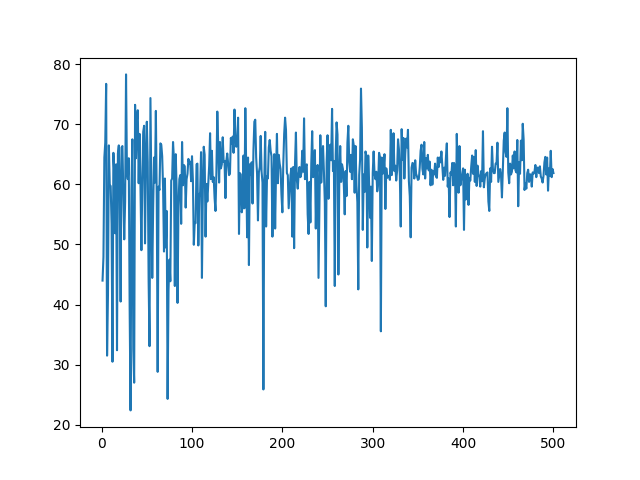
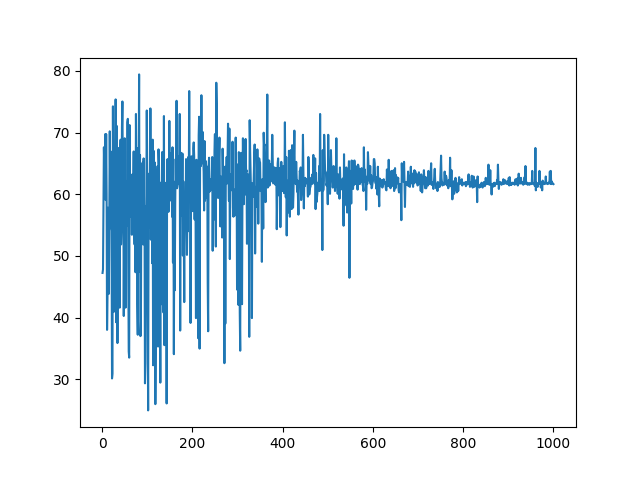
Run for 1000 rounds

diff --git a/examples/vertical-fl/simulation.py b/examples/vertical-fl/simulation.py
@@ -15,7 +15,7 @@ def client_fn(cid):
 hist = fl.simulation.start_simulation(
     client_fn=client_fn,
     num_clients=3,
-    config=fl.server.ServerConfig(num_rounds=500),
+    config=fl.server.ServerConfig(num_rounds=1000),
     strategy=Strategy(label),
 )
 

diff --git a/examples/vertical-fl/README.md b/examples/vertical-fl/README.md
@@ -82,7 +82,7 @@ for `poetry`, otherwise just run:
 python3 simulation.py
 ```
 
-This will start the Vertical FL training for 500 rounds with 3 clients.
+This will start the Vertical FL training for 1000 rounds with 3 clients.
 Eventhough the number of rounds is quite high, this should only take a few
 seconds to run as the model is very small.
 
@@ -451,12 +451,12 @@ function:
 hist = fl.simulation.start_simulation(
     client_fn=client_fn,
     num_clients=3,
-    config=fl.server.ServerConfig(num_rounds=500),
+    config=fl.server.ServerConfig(num_rounds=1000),
     strategy=Strategy(label),
 )
 ```
 
-As mentioned before, we train for 500 rounds but it should still last less than
+As mentioned before, we train for 1000 rounds but it should still last only
 a few seconds.
 
 Note that we store the results of the simulation into `hist`, this will allow us
@@ -465,7 +465,7 @@ rounds.
 
 ## Results
 
-Here we can observe the results after 500 rounds:
+Here we can observe the results after 1000 rounds:
 
 ![Accuracy plot](docs/results/accuracy.png)
 
